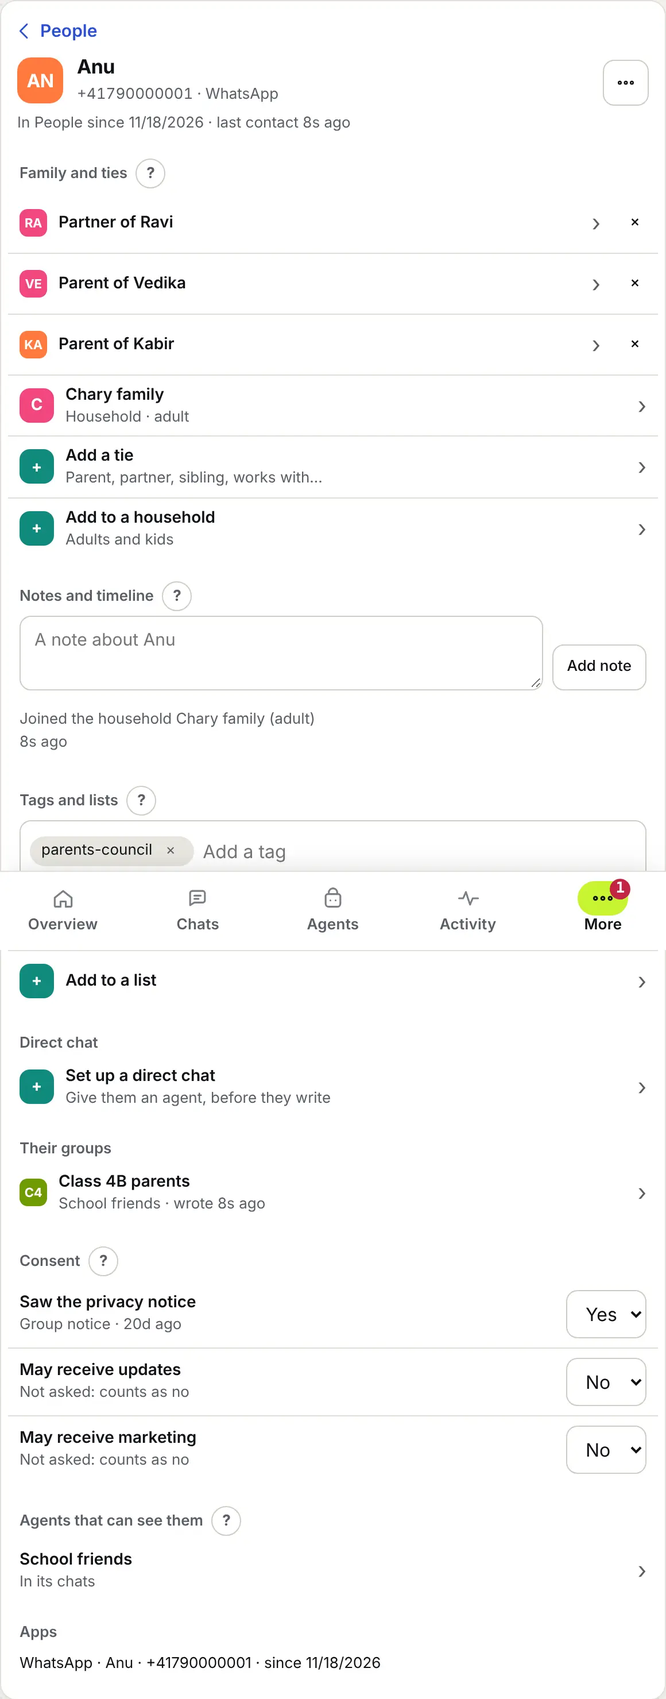
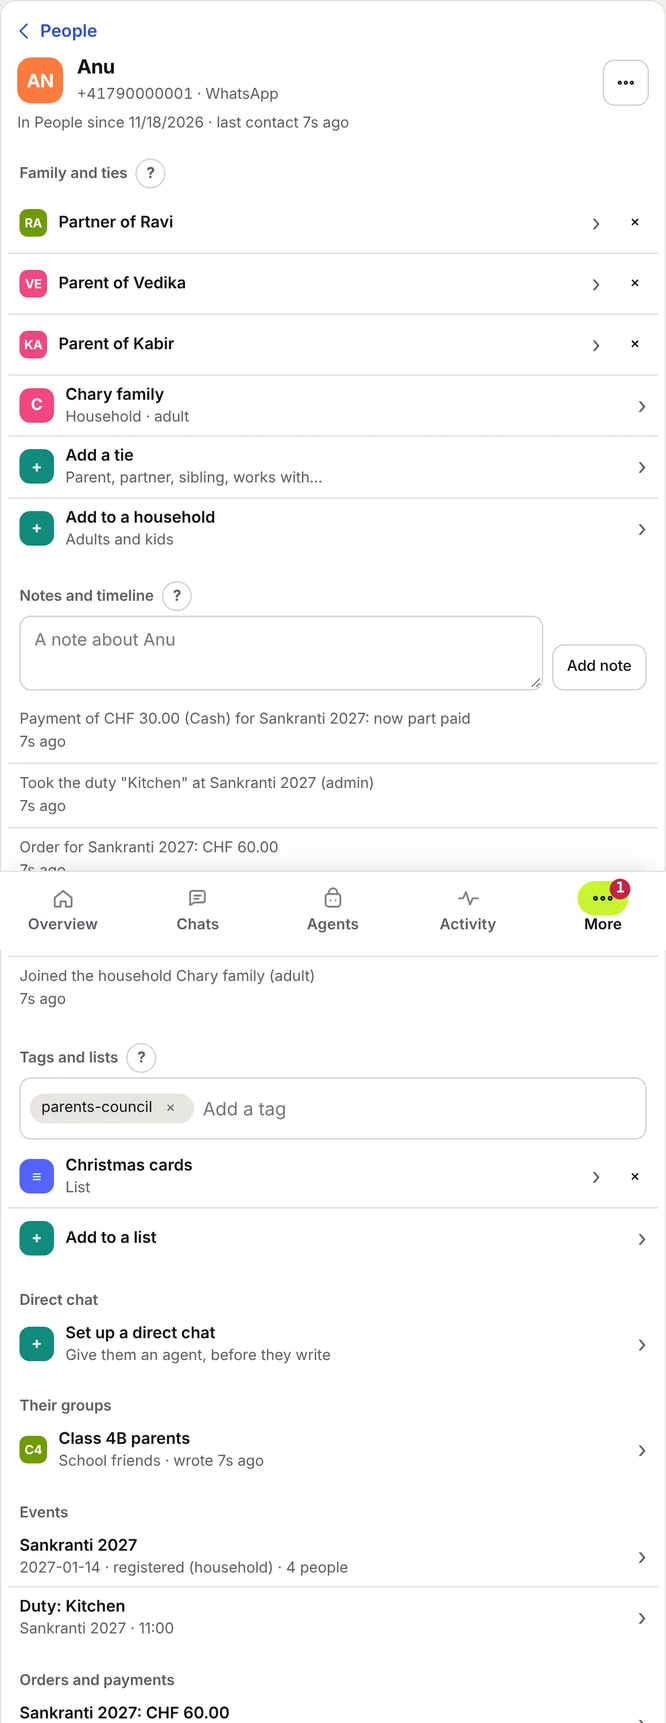
Docs (modules, events, orders), website tile, screenshots, spec 081, release notes, v2.43.0

diff --git a/src/panel/public/app/events.js b/src/panel/public/app/events.js
@@ -83,12 +83,12 @@ async function eventPage(id) {
   };
   const regRow = (r) => row(r.who, [`${plural(r.adults, 'adult')}${r.kids ? `, ${plural(r.kids, 'kid')}` : ''}`, r.notes, r.attended ? 'came' : ''].filter(Boolean).join(' · '), {
     href: r.person ? `#people/${enc(r.person)}` : r.household ? `#people/households/${enc(r.household)}` : null,
-    end: h('span', { class: 'row-end' }, pill(r.status), can('admin') ? menu(`More for ${r.who}`,
+    end: can('admin') ? menu(`More for ${r.who}`, // the group title says the status
       r.status !== 'registered' ? h('button', { class: 'btn small', type: 'button', onclick: () => set(r, { status: 'registered' }, r.status === 'pending' ? 'Confirmed' : 'Registered') }, r.status === 'pending' ? 'Confirm' : 'Register') : null,
       r.status !== 'waiting' && r.status !== 'cancelled' ? h('button', { class: 'btn small', type: 'button', onclick: () => set(r, { status: 'waiting' }, 'On the waiting list') }, 'Waiting list') : null,
       h('button', { class: 'btn small', type: 'button', onclick: () => numbers(r) }, 'Change numbers…'),
       r.status === 'registered' ? h('button', { class: 'btn small', type: 'button', onclick: () => set(r, { attended: !r.attended }, 'Saved') }, r.attended ? 'Did not come' : 'Came') : null,
-      r.status !== 'cancelled' ? h('button', { class: 'btn small danger', type: 'button', onclick: () => set(r, { status: 'cancelled' }, 'Cancelled') }, 'Cancel registration') : null) : null) });
+      r.status !== 'cancelled' ? h('button', { class: 'btn small danger', type: 'button', onclick: () => set(r, { status: 'cancelled' }, 'Cancelled') }, 'Cancel registration') : null) : null });
   const by = (s) => g.registrations.filter((r) => r.status === s);
   const addDuty = async () => {
     const task = h('input', { placeholder: 'e.g. Set up chairs', autocomplete: 'off' }); const at = h('input', { placeholder: 'e.g. 09:00', autocomplete: 'off' }); const needed = h('input', { type: 'number', min: 1, value: 2 });

diff --git a/docs/site/index.html b/docs/site/index.html
@@ -175,6 +175,16 @@
         </div>
       </article>
 
+      <article class="tile wide">
+        <span class="label">Events &amp; payments</span>
+        <h3>Who comes, with how many kids, and who has paid.</h3>
+        <p>Switch on <b>Events</b> and <b>Orders and payments</b> under Settings → Modules. Families register in the group (<i>"!panduga register us for Sankranti"</i>): adults and kids come from the household, a full event fills a <strong>waiting list that moves up by itself</strong>, and an organizer can confirm each one. The price list turns a registration into an order (kids under an age free); record cash or bank payments, part or full, and ask <i>"who hasn't paid?"</i>. Duties, attendance and CSV too. Duniya records payments, it never takes money.</p>
+        <div class="duo">
+          <a class="shot" href="img/card-event.webp"><img src="img/card-event.webp" width="1600" height="1849" loading="lazy" alt="Sankranti 2027: 7 registrations, 18 people (12 adults, 6 kids), 22 places left; the Chary family with 2 adults, 2 kids, vegetarian; duties such as setting up chairs at 09:00; CHF 115 paid of CHF 350."></a>
+          <a class="shot" href="img/card-orders.webp"><img src="img/card-orders.webp" width="1600" height="1159" loading="lazy" alt="Orders not paid: totals for Sankranti 2027 and each order with what is left and when it is due, one overdue, one part paid."></a>
+        </div>
+      </article>
+
       <article class="tile third">
         <span class="label">Telegram</span>
         <h3>Your Telegram groups too, with one bot.</h3>

diff --git a/specs/081-modules-events-orders/spec.md b/specs/081-modules-events-orders/spec.md
@@ -1,0 +1,50 @@
+# 081 · People step 3b: module frame, Events, Orders and payments
+
+Issue #182. Builds on 078/079 (People) and 080 (pace). The design doc is approved; decisions are final.
+
+## Why
+
+Owners run family and community events from WhatsApp groups: who comes, how many kids, who brings what, who has paid.
+That lived in spreadsheets next to Duniya. People already knows the families; events and payments hang off them. New
+features of this kind should plug in the same way, and cost nothing on a small server until they are switched on.
+
+## User stories
+
+1. Settings → Modules: Events and Orders and payments, each with a switch, one line and the memory it uses. Off keeps
+   the data; on brings it back.
+2. I create *Sankranti 2027*: 14 Jan, Aigle hall, 40 places, closes 8 Jan, CHF, per household, confirmed
+   automatically, CHF 25 per adult, CHF 10 per kid, kids under 5 free, pay by 10 Jan.
+3. Anu writes "!panduga register us for Sankranti": the Chary family is registered with 2 adults and 2 kids (from the
+   household), an order of CHF 60 appears (one kid is under 5), and every member's timeline says so.
+4. The event is full: the next family goes on the waiting list; when someone cancels they get the place by themselves.
+5. A picnic needs an organizer's OK: self-registrations are *to confirm*; an organizer confirms with the agent (held
+   for `confirm CODE`) or in the panel.
+6. "I'll set up the chairs" takes a duty; an organizer gives a duty to someone (held).
+7. People → Orders: not paid / overdue / paid / all, totals per event, CSV; an order's lines and payments; record a
+   part payment in cash, the rest by TWINT (my own list of ways to pay); refund.
+8. Agents answer "what do I owe?" (everyone) and "who hasn't paid for Sankranti?" (organizers); mark paid / refund are
+   held for `confirm CODE`. The owner assistant answers the same and "how many kids registered?".
+9. Merge, undo, export and erase in People cover registrations, duties, orders and payments; deleting a household
+   deletes its registrations and orders.
+10. Once a day I get one message with the open orders due within three days or overdue.
+
+## Requirements
+
+- R1 Module frame `src/modules/<id>/`: a catalogue entry (label, line, person/household refs and child tables) and a
+  manifest (tables via CREATE TABLE, tools with roles, participant defaults and confirm, apply for held changes,
+  person/household/event sections, upkeep, signals). `import()` only when on; off drops tools, pages and upkeep.
+- R2 Module tools appear per agent like WhatsApp actions: `<module>:` rules, organizers all, participants the
+  defaults, all/none ticks. Changes about anyone but the sender are held (runner confirm gate, `local:<module>`).
+- R3 Events: validated dates (YYYY-MM-DD[THH:MM]), capacity in people, deadline for participants only, one currency,
+  per household/person, auto/organizer confirmation, price list, pay-by; statuses registered / waiting / pending /
+  cancelled; automatic promotion; duties with needed counts; attendance; CSV safe against spreadsheet formulas.
+- R4 Orders: person or household, optional event (its currency), lines, cents, due date, payments with methods from
+  the owner's list, refunds as negative payments; status open / part / paid / refunded / cancelled; price list →
+  order on registration (kids free under an age by birthday); unpaid order follows registration changes.
+- R5 Hidden people never appear in agent tool output; agents name only people their People access allows.
+- R6 All new queries pass check-perf; workload: event page, registration list, orders list, who hasn't paid.
+- R7 The one-time migrations of 2.40 are removed.
+
+## Out of scope
+
+Third-party modules; sending reminders or lists to people (step 4); taking payments.

diff --git a/docs/events.md b/docs/events.md
@@ -1,0 +1,60 @@
+# Events
+
+**Run a family event end to end: who comes, with how many kids, who is on the waiting list, who sets up the chairs.**
+
+**Do it:** **Settings → Modules** → **Events** on → **People → Events** → **+ New**.
+
+**In 30 seconds**
+- An event has dates, a place, **places** (people: adults and kids; 0 = no limit), a **deadline**, **one currency**
+  (CHF by default), registration **per household** or **per person**, and confirmation **automatic** or **by an
+  organizer**. Optionally a **price list** (adult, kid, kids under an age free) and a pay-by date.
+- People register through an agent (*"!panduga register us for Sankranti"*) or you register them here.
+- Full → **waiting list**. When someone cancels, the first waiting registrations that fit get the place by themselves.
+- **Duties**: a task, a time, how many people; anyone takes one (*"I'll do the chairs"*), organizers assign.
+- With [Orders and payments](orders.md) on, a registration on an event with prices becomes an order by itself.
+
+![An event's page: counts, registrations with adults and kids, duties and payments](site/img/card-event.webp)
+
+## Create an event
+
+1. **People → Events → + New**.
+2. Name, start (and end), place, **Places** (0 = no limit), **Registration closes** (organizers can still add people
+   after it), **Registration** per household or per person, **Confirmed** automatically or by an organizer.
+3. Prices (optional): per adult, per kid, and **Kids under this age are free** (uses their birthday in People). The
+   currency is the event's, one per event.
+4. **Create event**. Change it any time with **⋯ → Edit…**; a larger capacity lets the waiting list in.
+
+## Registrations
+
+- **Per household**: a family registers once. Adults and kids default to the household's members (kids are the
+  household's kid members, with or without a phone). The numbers can be changed (**⋯ → Change numbers…**).
+- **Per person**: one person, with extra adults or kids if they bring guests.
+- Status: **Registered**, **Waiting list**, **To confirm** (the event needs an organizer), **Cancelled**. Each row's
+  **⋯** confirms, moves to the waiting list, cancels, or marks **Came** (attendance).
+- Notes (diet, arrives late) show on the row and in the CSV. **⋯ → Download CSV** exports the list; cells that a
+  spreadsheet would run as a formula are made safe.
+- Every member's **timeline** in People notes when they registered, moved or got a place.
+
+> [!TIP]
+> Ask the owner assistant *"how many kids registered for Sankranti?"* or *"who is on the waiting list?"*.
+
+## What agents can do
+
+| Tool | Who | Confirm |
+|---|---|---|
+| `list_events`, `show_event` (incl. their own registration) | everyone | – |
+| `register` (myself or my household; pending when an organizer confirms; the deadline applies) | everyone | – |
+| `cancel_my_registration`, `take_duty` | everyone | – |
+| `registration_list` (names, adults, kids, notes, counts) | organizers | – |
+| `register_someone`, `update_registration` (confirm, waiting list, cancel), `assign_duty` | organizers | `confirm CODE` |
+
+Agents name only people their [People access](people.md#what-agents-see) lets them see; hidden people never show.
+Tick tools per role on the agent's page ([Modules](modules.md#agent-tools)).
+
+## AI assistants and the owner assistant
+
+Admin MCP: `list_events`, `get_event`, `save_event`, `delete_event`*, `register_for_event`, `update_registration`,
+`save_event_duty` (* needs `confirm_action`).
+
+---
+**Next:** [Orders and payments](orders.md) · [Modules](modules.md) · [People](people.md) · [Docs index](README.md)

diff --git a/docs/admin-mcp.md b/docs/admin-mcp.md
@@ -75,6 +75,7 @@ rotation). Spec: [`specs/017-admin-mcp/`](../specs/017-admin-mcp/spec.md).
 | Chats | assign, settings (model, fallback mode and chain, logging, welcome new members; `list_chats` leaves out settings at their default), private, privacy notice, stored messages (`list_chat_messages`: each answer with its agent and rating; `around_id` opens them at one answer; `delete_chat_message`, confirmed: the agent forgets it), `search_messages` (owner: across every chat that is on and not private), `load_chat_history` (Load earlier from your phone, optional: unanswered loads retry by themselves; the owner assistant runs it without a confirm code), `set_history_on_switch_on`, prepare a direct chat before the person writes (`prepare_direct_chat`; confirmed when `send_intro` is set), first message by the agent (`send_chat_intro`, confirmed) |
 | Money | usage, prices, spending caps, weekly summary preview (alerts number and schedule: `update_agent` on `owner-assistant`) |
 | People & memory | [People](people.md) (`list_people`, `get_person`: one person's page — apps, ties, households, notes and timeline, tags, lists, their chats, consents, the agents that can see them; `add_person`, `update_person`, `add_person_note`, `set_person_tie`, `remove_person_tie`, `set_person_tags`, `set_person_hidden` (Hide / Show again), `set_person_consent` (privacy notice, updates, marketing), `merge_people`, `undo_merge`, `export_person`, `erase_person` (the only true delete, owner, confirmed); `list_people` filters by `source` (chat, phone, owner) and `hidden`; `update_agent` sets `peopleAccess`, `peopleLists` and organizers as people or lists; households: `list_households`, `get_household`, `save_household`, `set_household_member`; lists: `list_people_lists`, `save_people_list`, `set_list_member`; names: `people_names_status`, `refresh_contact_names`, `set_contact_names_for_agents`, optional — names refresh by themselves), memory, WhatsApp groups, WhatsApp numbers, users |
+| Modules | `list_modules`, `set_module_enabled` (confirm required); [Events](events.md): `list_events`, `get_event` (counts incl. kids, registrations, duties), `save_event`, `delete_event` (confirm required), `register_for_event`, `update_registration`, `save_event_duty`; [Orders and payments](orders.md): `list_orders` ("who hasn't paid?"), `get_order`, `create_order`, `record_payment` (payments and refunds, confirm required), `set_payment_methods` |
 | Sending pace | `get_sending_pace`, `set_sending_pace` (preset, read receipts, custom ranges: [Sending pace](sending-pace.md)) |
 | Channels | `list_channels` (state, numbers or bot connected, memory used, the Telegram bot's name and privacy mode), `set_channel_enabled` (switching a channel off needs `confirm_action`), `set_telegram_dm_agent`; connect Telegram with `set_secret` `TELEGRAM_BOT_TOKEN` (one-time link) |
 | Models | models, accounts (`list_model_accounts` with each account's health: paused until when and why, e.g. a usage limit; for [agent apps](models.md#agent-apps) also whether the app is downloaded and its measured memory), fallback, photos & voice. Agent apps are connected by the owner in the panel (their own sign-in) |

diff --git a/docs/people.md b/docs/people.md
@@ -20,7 +20,7 @@
 
 ## The People screen
 
-- **People · Households · Lists** sit at the top; each is a list, and a row opens its page (`#people/<id>`,
+- **People · Households · Lists** (and **Events · Orders** when those [modules](modules.md) are on) sit at the top; each is a list, and a row opens its page (`#people/<id>`,
   `#people/households/<id>`, `#people/lists/<id>`).
 - **People (N)** counts everyone (hidden people aside); with a search or a filter it says how many match, e.g.
   *People (12 of 640)*.
@@ -135,22 +135,21 @@ a tie from both.
 ## Hide, merge, export
 
 - **Merge…** (owner): choose the other entry of the same human; their apps, notes, ties, households, tags and lists
-  move here. The page then offers **Undo merge** for 30 days. When there is evidence (a verified phone number of one
+  move here, and so do their event registrations, duties and orders. The page then offers **Undo merge** for 30 days. When there is evidence (a verified phone number of one
   person belongs to the other), the page suggests the merge: one tap.
 - **Export** (owner) downloads everything stored about the person as JSON: their page, names, notes, ties, households,
-  tags, lists and their stored messages.
+  tags, lists, registrations, duties, orders and payments, and their stored messages.
 - **Hide…**: they leave People lists and search, and agents no longer see them (tools and the sender card). Their
   notes, ties and chats stay, and your phone's contacts never bring them back as someone new. **Show → Hidden** lists
   them; **Show again** undoes it.
 - **Erase** (a true delete, for privacy requests) is not in the panel: ask an AI assistant with the admin tools
   (`erase_person`, owner only, with a confirmation). See [Privacy](privacy.md#delete-a-person).
 
-## After updating to 2.40
+## Events, orders and payments
 
-Nothing to do. On the first start the app notes, from what is stored, which chats each person wrote in and the privacy
-notices they saw, and saved organizer or participant numbers that belong to someone in People become that person (so
-the role follows them to Telegram). Old agent tool rules for `contacts:` keep working as the matching `people:` rules
-for this release. Your phone's contacts become people over the next minutes.
+With the [modules](modules.md) switched on, People also holds [Events](events.md) (registrations, waiting list, duties)
+and [Orders and payments](orders.md): **People · Households · Lists · Events · Orders**. A person's and a household's
+page then show their registrations, duties and orders, and their timeline says when they registered or paid.
 
 ## AI assistants and the owner assistant
 
@@ -164,4 +163,4 @@ The [owner assistant](owner-assistant.md) uses the same tools: it reads People d
 your confirmation.
 
 ---
-**Next:** [Chats](chats.md) · [Privacy](privacy.md) · [Docs index](README.md)
+**Next:** [Events](events.md) · [Orders and payments](orders.md) · [Chats](chats.md) · [Privacy](privacy.md) · [Docs index](README.md)

diff --git a/specs/081-modules-events-orders/plan.md b/specs/081-modules-events-orders/plan.md
@@ -1,0 +1,17 @@
+# 081 · Plan
+
+| Concern | Decision |
+|---|---|
+| Frame | `src/modules/index.js`: `MODULES` catalogue (refs + children, `load: () => import()`), `startModules` (startup), `setModuleOn` (setting `modulesOn`, memory measured as RSS delta at load), `need(id)` (409 when off), `moduleRules`, `changeOrHold` / `applyModuleAction`, `moduleSections(kind, id)`, `modulesUpkeep`, `emit` (signals), generic `moveModuleRows` / `restoreModuleRows` / `exportModuleRows` / `eraseModuleRows` |
+| Hooks | `tools.js` adds live module tools; `runner.applyPending` handles `local:<module>`; `upkeep.js` runs module upkeep (skipped while memory is tight); `people-ops.js` merge/undo/export/erase; `people.js` deleteHousehold; person/household API `modules` sections |
+| Events | `src/modules/events/index.js` (tables `ev_events`, `ev_registrations`, `ev_duties`, `ev_duty_people`), `tools.js` (9 tools) |
+| Orders | `src/modules/orders/index.js` (tables `ord_orders`, `ord_lines`, `ord_payments`; setting `paymentMethods`), `tools.js` (4 tools); listens to the `registration` signal |
+| Panel API | `routes/modules.js`: `/api/modules`, `/api/modules/tools`, `/api/module/events…` (`/api/events` is the live stream), `/api/module/registrations/:id`, `/api/module/duties/:id`, `/api/orders…`, CSV |
+| Panel | Settings → Modules (settings.js), People nav Events · Orders (people.js), `events.js` (lists and pages, loaded on visit), `moduleBlocks` on person, household and event pages, module tool ticks in the agent editor (WhatsApp ticks generalised) |
+| Admin MCP | list_modules, set_module_enabled*, list_events, get_event, save_event, delete_event*, register_for_event, update_registration, save_event_duty, list_orders, get_order, create_order, record_payment*, set_payment_methods |
+| Indexes | ev_events_starts, ev_registrations_event (tenant, event, status, created), _person, _household; ev_duties_event; ev_duty_people_person; ord_orders_status (tenant, status, due), _event (tenant, event, status), _person, _household, _registration, _created; ord_payments_ord. About 60–80 bytes per registration or order per index |
+| Perf | fixture: 20 events, 4k registrations, ~2.7k orders with lines and payments, 200 duties; budgets: event page 15 ms, registration list 15, orders list 20, who hasn't paid 15 (measured 4.6 / 5.9 / 8.8 / 4.5); tag filter pinned to `person_tags_tag`; Orders → All allowed as newest-first with LIMIT |
+| Small servers | nothing loads while off; no timers (upkeep tick: one reminder query a day); lists capped (200 events, 200 orders) |
+| Panel budget | first screen +0.1 KB (62 600), total +6.8 KB (196 500) |
+| Migrations | removed: migratePeopleChats, migrateRolesToPeople, people source/hidden ALTER, contacts: rule mapping. Added: none (new tables via CREATE TABLE) |
+| Dependencies | none |

diff --git a/docs/orders.md b/docs/orders.md
@@ -1,0 +1,51 @@
+# Orders and payments
+
+**Know who owes what and who paid, per event or for anything else. Duniya records payments; it never takes money.**
+
+**Do it:** **Settings → Modules** → **Orders and payments** on → **People → Orders**.
+
+**In 30 seconds**
+- An order belongs to a **person or a household**, optionally to an **event** (then it is in the event's currency),
+  with lines (item, quantity, price), a total and a due date.
+- An event with a **price list** makes the order by itself when a registration is registered: adults × adult price,
+  kids × kid price, kids under the free age at 0 (their birthday in People). New numbers change an unpaid order; a
+  cancellation cancels it (if something was paid, the timeline says so and you refund).
+- Record **payments** (part or full) and **refunds** with a method from **your own list** (Cash, Bank transfer,
+  Instant online payment by default). Status: **Open**, **Part paid**, **Paid**, **Refunded**, **Cancelled**.
+- Once a day you get one message with the open orders due within three days or overdue (owner alerts). Reminders to
+  people come with list sending.
+
+![Orders: not paid, totals per event, and each order with what is left and when it is due](site/img/card-orders.webp)
+
+## The Orders page
+
+1. **Not paid · Overdue · Paid · All** filter the list; **CSV** downloads it.
+2. **By event** shows each event's totals (collected of total, how many orders are not fully paid); tap one to see
+   only its orders.
+3. A row opens the order: its lines, its payments (each can be removed), **Record a payment**, and **⋯ → Refund…**,
+   **Edit…** (due date, note), **Delete…**.
+4. **+ New** makes an order by hand (a person, what, how many, the price, a due date).
+
+## Ways to pay
+
+**Settings → Modules → Ways to pay**: one per line (e.g. *Cash*, *Bank transfer*, *TWINT*). Payments pick one; agents
+offer them when someone asks what they owe.
+
+## What agents can do
+
+| Tool | Who | Confirm |
+|---|---|---|
+| `what_do_i_owe` (their own and their household's open orders, the ways to pay) | everyone | – |
+| `who_has_not_paid` (per event or all, with totals) | organizers | – |
+| `mark_paid`, `refund` | organizers | `confirm CODE` |
+
+> [!TIP]
+> Ask the owner assistant *"who hasn't paid for Sankranti?"*.
+
+## AI assistants and the owner assistant
+
+Admin MCP: `list_orders` (open, overdue, paid, refunded, cancelled or all; per event), `get_order`, `create_order`,
+`record_payment`* (payment or refund), `set_payment_methods` (* needs `confirm_action`).
+
+---
+**Next:** [Events](events.md) · [Modules](modules.md) · [People](people.md) · [Docs index](README.md)

diff --git a/docs/modules.md b/docs/modules.md
@@ -1,0 +1,48 @@
+# Modules
+
+**Switch on built-in features that hang off People: Events, and Orders and payments. Off keeps their data.**
+
+**Do it:** panel → **Settings → Modules** → switch **Events** (and **Orders and payments**) on.
+
+**In 30 seconds**
+- A module adds pages under **People** (**Events**, **Orders**), sections on a person's and a household's page, entries
+  in their timeline, and **agent tools**.
+- Nothing of a module runs until you switch it on: its code loads only then, so a small server pays nothing for what
+  it does not use. The row shows the memory it uses.
+- **Off** removes its agent tools and pages; its data stays, and comes back when you switch it on again.
+- Merge, undo, export and erase in People cover module rows too (also while a module is off).
+
+![Settings → Modules: Events and Orders and payments, each with a switch, and the ways to pay](site/img/card-modules.webp)
+
+## The modules
+
+| Module | What it adds | Guide |
+|---|---|---|
+| **Events** | events with places, a deadline, a price list; registrations per household or person (adults and kids), a waiting list, organizer confirmation, duties, attendance, CSV | [Events](events.md) |
+| **Orders and payments** | what people owe and paid: orders (from a registration by itself, or by hand), part payments, refunds, your own ways to pay, a daily list of orders due | [Orders and payments](orders.md) |
+
+## Agent tools
+
+When a module is on, every agent gets its tools, shown on the agent's page under **Tools** with a tick per role and
+**All: participants / All: organizers**, like WhatsApp actions:
+
+- **Participants** get the tools about themselves (register me or my household, cancel, take a duty, what do I owe).
+- **Organizers** get the rest. A change about anyone other than the sender (register someone, confirm, waiting list,
+  cancel, assign a duty, mark paid, refund) **waits for an organizer's `confirm CODE`**, like other agent changes.
+- Untick a tool, or **All** off for a role, to take it away from that agent. Rules are decided in code, never by the
+  prompt.
+
+> [!NOTE]
+> Duniya records payments; it never takes or moves money.
+
+## Switching off
+
+1. **Settings → Modules** → switch it off. Agents lose its tools at their next turn; the pages leave People.
+2. Its data stays in the database (and in backups). Switch it on again and everything is back.
+
+## AI assistants and the owner assistant
+
+Admin MCP: `list_modules`, `set_module_enabled`* (* needs `confirm_action`); each module's tools are on its page.
+
+---
+**Next:** [Events](events.md) · [Orders and payments](orders.md) · [People](people.md) · [Docs index](README.md)

diff --git a/specs/081-modules-events-orders/tasks.md b/specs/081-modules-events-orders/tasks.md
@@ -1,0 +1,18 @@
+# 081 · Tasks
+
+- [x] T1 Issue #182 (labels, spec: 081), spec folder, plan comment
+- [x] T2 Remove the 2.40 one-time migrations (code, tests, check-perf)
+- [x] T3 Module frame: catalogue, load on switch-on, tools and rules, held changes, sections, upkeep, signals, generic merge/undo/export/erase/household delete
+- [x] T4 Events module: events, registrations (household/person, kids from the household), capacity and waiting list, confirmation, deadline, duties, attendance, CSV; agent tools
+- [x] T5 Orders module: orders, lines, payments, refunds, statuses, ways to pay, price list → order, daily due list for the owner; agent tools
+- [x] T6 Panel API + panel: Settings → Modules, People → Events / Orders, event and order pages, sections on person/household pages, tool ticks
+- [x] T7 Admin MCP tools (risky ones confirmed); owner assistant uses them
+- [x] T8 Tests with fakes (modules.test.js); check-perf fixture and workload
+- [x] T9 Demo data, responsive states, site shots, docs (modules, events, orders, people, privacy, admin-mcp, index), README, website tile, DESIGN.md
+- [x] T10 Version 2.43.0, releases.json; all checks; PR; merge; done comment; real-device checks on #62
+
+## Definition of Done
+- [x] Small servers: modules load only when on; no timers; bounded upkeep; check:perf passes with new budgets
+- [x] Lean code: migrations removed; WhatsApp tool ticks generalised, not copied; ci-checks pass
+- [x] Security & privacy: permissions and confirm in code; hidden people out of agent output; CSV formula-safe; erase covers module rows
+- [x] Docs, website, screenshots, admin MCP

diff --git a/README.md b/README.md
@@ -55,7 +55,7 @@ then takes about five taps: link WhatsApp, connect a model, pick a template, swi
 </tr>
 </table>
 
-More: [People](docs/people.md) (everyone from your chats and your phone in one place: families, kids, notes, tags, lists, consent; agents know who is writing and see only their own chats' people) · [Telegram](docs/telegram.md) · [MCP tool services](docs/agents.md#tool-services-mcp) · [manage it from ChatGPT or Claude](docs/admin-mcp.md) ·
+More: [People](docs/people.md) (everyone from your chats and your phone in one place: families, kids, notes, tags, lists, consent; agents know who is writing and see only their own chats' people) · [Events](docs/events.md) and [orders & payments](docs/orders.md) (registrations with kids, waiting list, duties, who paid; agents register people) · [Telegram](docs/telegram.md) · [MCP tool services](docs/agents.md#tool-services-mcp) · [manage it from ChatGPT or Claude](docs/admin-mcp.md) ·
 [your own domain](docs/domains-and-access.md) · [how it works](docs/architecture.md).
 
 > [!WARNING]

diff --git a/docs/privacy.md b/docs/privacy.md
@@ -65,8 +65,8 @@ context…" (edit under **Settings → Privacy notice**).
 For a privacy request ("delete everything about me"), the panel's **Hide** is not enough: it keeps their data. Ask an
 AI assistant connected with the [admin tools](admin-mcp.md) (or your owner assistant) to **erase** them
 (`erase_person`, owner only): it shows what goes and waits for your confirmation, then deletes their stored messages in
-every chat, their direct chat's memory, notes, ties, household memberships, tags, list entries, consents and app
-accounts. The activity log keeps only counts. If they write again in a chat that is on, or WhatsApp syncs their number
+every chat, their direct chat's memory, notes, ties, household memberships, tags, list entries, consents, app
+accounts, and their event registrations, duties, orders and payments ([modules](modules.md)). The activity log keeps only counts. If they write again in a chat that is on, or WhatsApp syncs their number
 from your phone again, they come back as a new person; **Hide** them then.
 
 > [!WARNING]
